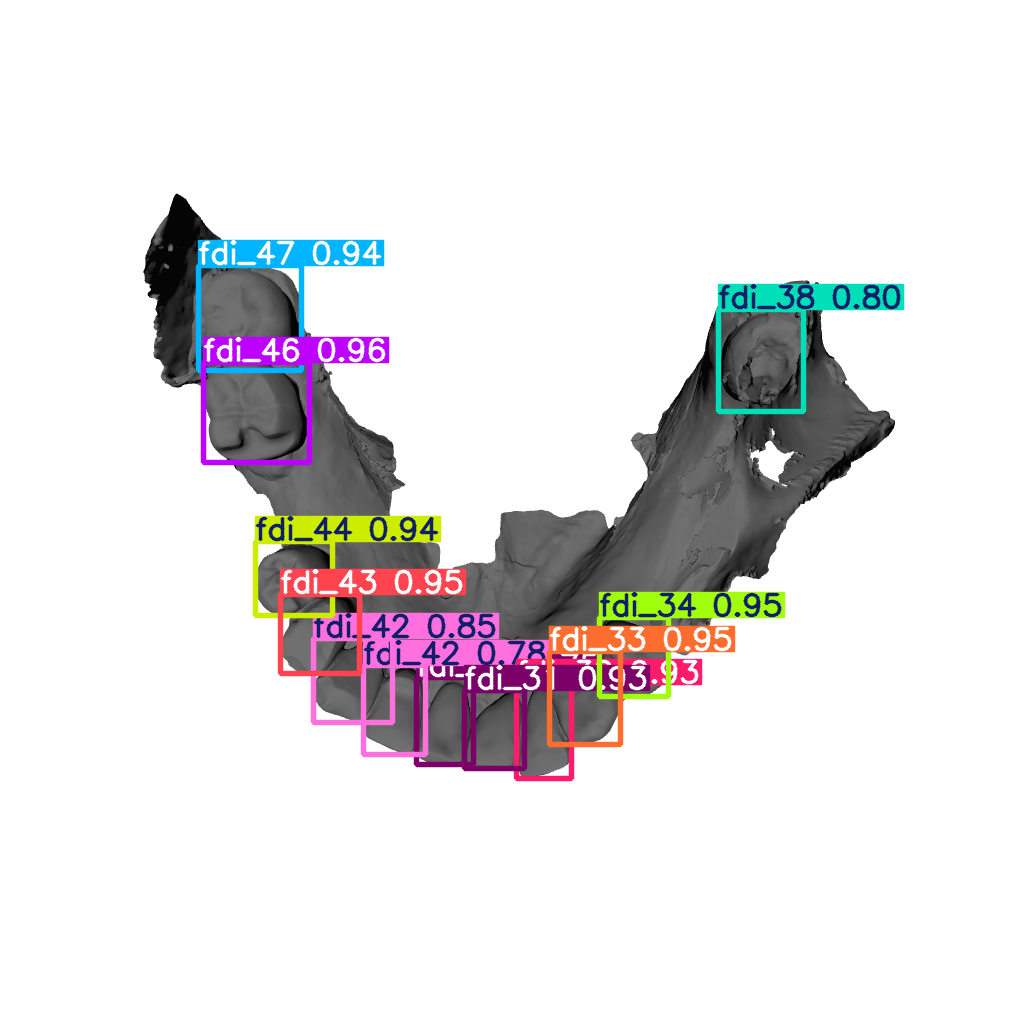
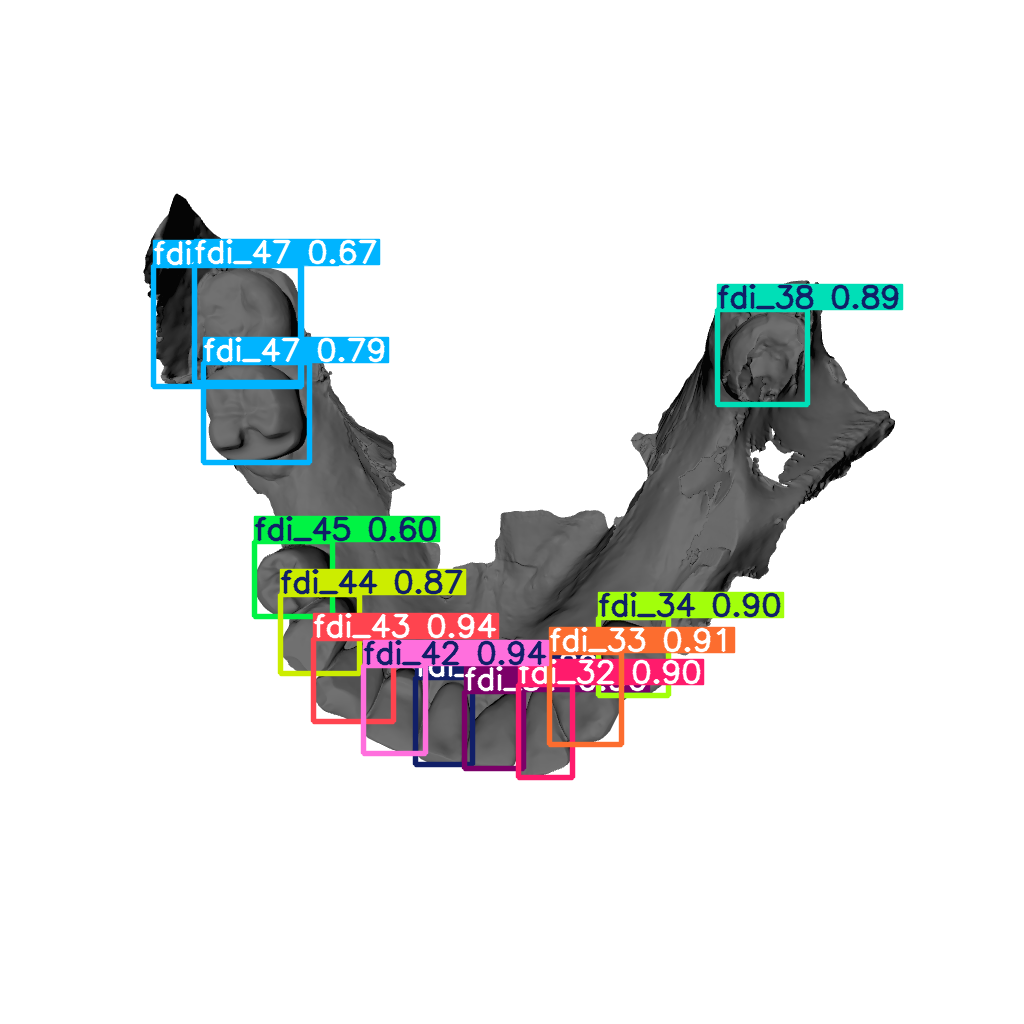
backup

Changed region(s): [[0.2188, 0.5, 0.7812, 0.7812], [0.125, 0.2188, 0.375, 0.4688], [0.6875, 0.2812, 0.9062, 0.4062]]

diff --git a/post_process.py b/post_process.py
@@ -3,7 +3,7 @@ import numpy as np
 
 # 載入模型和推論
 model = YOLO('runs/detect/m_using_m.autotune_dataaugmented/weights/best.pt')
-img_path = 'uninference_tooth/00240433UpperJaw_neutral.png'
+img_path = 'uninference_tooth/00240433LowerJaw_neutral.png'
 #results = model(img_path, agnostic_nms=True)
 results = model.predict(img_path, classes="soft", agnostic_nms=True) # pip install git+https://github.com/ultralytics/ultralytics@exp-nms 可以顯示bbox每個class的conf
 '''
@@ -156,7 +156,7 @@ TEMPLATE = {
     'upper': [18, 17, 16, 15, 14, 13, 12, 11, 21, 22, 23, 24, 25, 26, 27, 28],
     'lower': [38, 37, 36, 35, 34, 33, 32, 31, 41, 42, 43, 44, 45, 46, 47, 48]
 }
-
+'''
 def run_viterbi_alignment(prob_matrix, jaw_type='lower'):
     """
     prob_matrix: shape (N, 16), 你的機率矩陣
@@ -246,6 +246,104 @@ def run_viterbi_alignment(prob_matrix, jaw_type='lower'):
     final_fdi_labels.reverse()
     assigned_indices.reverse()
     
+    return final_fdi_labels, assigned_indices
+'''
+def run_viterbi_alignment(prob_matrix, jaw_type='lower', print_dp_path=True):
+    """
+    prob_matrix: shape (N, 16), 你的機率矩陣
+    jaw_type: 'upper' 或 'lower'，用來決定輸出的 FDI 編號
+    print_dp_path: 是否印出 DP 與 PATH 矩陣
+    """
+    N, M = prob_matrix.shape
+    template_fdi = TEMPLATE[jaw_type]
+
+    GAP_PENALTY = 0.05
+
+    dp = np.full((N, M), -1e9, dtype=np.float64)
+    path = np.full((N, M), -1, dtype=int)
+
+    # --- 1. 初始化 (Base Case) ---
+    for j in range(M):
+        dp[0][j] = prob_matrix[0][j]
+
+    # --- 2. 遞推 (Recursion) ---
+    for i in range(1, N):
+        for j in range(M):
+
+            best_prev_score = -1e9
+            best_k = -1
+
+            search_start = max(0, j - 6)
+
+            for k in range(search_start, j):
+                gap_count = (j - k) - 1
+                penalty = gap_count * GAP_PENALTY
+
+                score = dp[i - 1][k] - penalty
+
+                if score > best_prev_score:
+                    best_prev_score = score
+                    best_k = k
+
+            if best_k != -1:
+                dp[i][j] = best_prev_score + prob_matrix[i][j]
+                path[i][j] = best_k
+
+    # --- 3. 回溯 (Backtracking) ---
+    last_bbox_idx = N - 1
+    best_last_col = int(np.argmax(dp[last_bbox_idx, :]))
+
+    final_fdi_labels = []
+    assigned_indices = []
+    curr_col = best_last_col
+
+    for i in range(N - 1, -1, -1):
+        fdi = template_fdi[curr_col]
+        final_fdi_labels.append(fdi)
+        assigned_indices.append(curr_col)
+
+        prev_col = path[i][curr_col]
+        if prev_col == -1 and i > 0:
+            print(f"Warning: Path broken at step {i}")
+            break
+        curr_col = prev_col
+
+    final_fdi_labels.reverse()
+    assigned_indices.reverse()
+
+    # --- 4. 印出 DP / PATH 矩陣（仿照 prob_matrix 的表格形式） ---
+    if print_dp_path:
+        headers = [f"fdi_{x}" for x in template_fdi]
+
+        # (A) DP 矩陣
+        header = f"{'idx':<6}" + "".join([f"{name:<10}" for name in headers])
+        print("\n=== DP matrix (cumulative score) ===")
+        print(header)
+        print("-" * len(header))
+        for i in range(N):
+            row_str = f"{i:<6}"
+            for j in range(M):
+                v = dp[i, j]
+                if v < -1e8:  # 視為 -INF（不可達）
+                    row_str += f"{'-INF':<10}"
+                else:
+                    row_str += f"{v:<10.4f}"
+            print(row_str)
+
+        # (B) PATH 矩陣：顯示「上一個狀態的 FDI」（比顯示 k index 好懂）
+        print("\n=== PATH matrix (prev state as FDI) ===")
+        print(header)
+        print("-" * len(header))
+        for i in range(N):
+            row_str = f"{i:<6}"
+            for j in range(M):
+                k = path[i, j]
+                if k == -1:
+                    row_str += f"{'-':<10}"
+                else:
+                    row_str += f"{str(template_fdi[k]):<10}"
+            print(row_str)
+
     return final_fdi_labels, assigned_indices
 
 # --- 測試執行 ---

diff --git a/post_process_vis.py b/post_process_vis.py
@@ -1,0 +1,67 @@
+from ultralytics import YOLO
+import cv2
+import numpy as np
+
+model = YOLO("runs/detect/m_using_m.autotune_dataaugmented/weights/best.pt")
+
+img_path = "uninference_tooth/00240433LowerJaw_neutral.png"
+print(f"\n=== Inference on: {img_path} ===")
+
+results = model(img_path, agnostic_nms=True)
+
+for i, r in enumerate(results):
+    im = r.plot(labels=False, conf=False)
+
+    centers = []
+    if r.boxes is not None and len(r.boxes) > 0:
+        xyxy = r.boxes.xyxy.cpu().numpy()
+
+        # 收集每個 bbox 中心點
+        for (x1, y1, x2, y2) in xyxy:
+            cx = (x1 + x2) / 2
+            cy = (y1 + y2) / 2
+            centers.append([cx, cy])
+
+        centers = np.array(centers, dtype=np.float64)  # (N, 2)
+
+        # 算術平均中心點（質心）
+        ax = float(np.mean(centers[:, 0]))
+        ay = float(np.mean(centers[:, 1]))
+        centroid_xy = np.array([ax, ay], dtype=np.float64)
+        centroid_pt = (int(ax), int(ay))
+
+        # 先畫「中心點 -> 質心」連線 + 中心點 + 角度標註
+        for (cx, cy) in centers:
+            p = (int(cx), int(cy))
+
+            # 連線
+            cv2.line(im, p, centroid_pt, color=(0, 255, 255), thickness=2)
+
+            # 中心點
+            cv2.circle(im, p, radius=4, color=(0, 0, 255), thickness=-1)
+
+            # 角度（弧度->度）
+            dx = cx - centroid_xy[0]
+            dy = cy - centroid_xy[1]
+
+            # 影像座標版本（y往下）：直接用 dy
+            angle_deg = np.degrees(np.arctan2(dy, dx))
+
+            # 如果你想用「數學平面直覺（y往上）」：改用下面這行取代上面那行
+            # angle_deg = np.degrees(np.arctan2(-dy, dx))
+
+            # 標註文字（放在點右上方一點點）
+            text = f"degree {angle_deg:.1f}"
+            cv2.putText(im, text, (p[0] + 6, p[1] - 6),
+                        cv2.FONT_HERSHEY_SIMPLEX, 0.5, (0, 0, 0), 2, cv2.LINE_AA)
+            cv2.putText(im, text, (p[0] + 6, p[1] - 6),
+                        cv2.FONT_HERSHEY_SIMPLEX, 0.5, (255, 255, 255), 1, cv2.LINE_AA)
+
+        # 最後畫質心（大點）
+        cv2.circle(im, centroid_pt, radius=5, color=(0, 0, 0), thickness=-1)
+
+        print(f"Arithmetic-mean center: ({ax:.2f}, {ay:.2f})")
+
+    out_path = f"pred_with_centers_{i}.jpg"
+    cv2.imwrite(out_path, im)
+    print("saved:", out_path)

diff --git a/train_yolo.py b/train_yolo.py
@@ -7,7 +7,7 @@ if __name__ == '__main__':
     # 載入預訓練模型
     #model = YOLO('yolo11m.pt')  # 使用 nano 版本，速度快
     #model = RTDETR("rtdetr-l.pt")
-    model = YOLO('yolo12l.pt') 
+    model = YOLO('yolo12n.pt') 
     with open("106_tune.yaml", "r") as f:
         hyp = yaml.safe_load(f)
     # 開始訓練
@@ -34,11 +34,11 @@ if __name__ == '__main__':
     )
     '''
     results = model.train(
-        name='yolo12l',
+        name='yolo12n',
         data='yolo_numbering_dataset/dataset_splited_augmented/data.yaml',
         epochs=350,
         imgsz=1024,
-        batch=-1,
+        batch=20,
         device=0,
         workers=8,
         patience=50,

diff --git a/prepare_data/yologtvis.py b/prepare_data/yologtvis.py
@@ -94,8 +94,8 @@ def visualize_yolo_annotations(image_path, annotation_path, data_yaml,
 
 
 output = visualize_yolo_annotations(
-    'yolo_numbering_dataset/dataset_splited_augmented/images/train/0EAKT1CU_lower.png',
-    'yolo_numbering_dataset/dataset_splited_augmented/labels/train/0EAKT1CU_lower.txt',
+    'yolo_numbering_dataset/dataset_splited_augmented/images/val/Z5SBGG6H_upper.png',
+    'yolo_numbering_dataset/dataset_splited_augmented/labels/val/Z5SBGG6H_upper.txt',
     'yolo_numbering_dataset/dataset_splited_augmented/data.yaml',
-    '0EAKT1CU_lower_annotated.png'
+    'Z5SBGG6H_upper_annotated.png'
 )

diff --git a/inference.py b/inference.py
@@ -21,6 +21,7 @@ img_paths = [
 '''
 
 
+
 # 逐張推論
 for img_path in img_paths:
     print(f"\n=== Inference on: {img_path} ===")
@@ -32,4 +33,4 @@ for img_path in img_paths:
         print("probs:", r.probs)   # 類別機率（如果你的模型有 classification head 才會有）
         
         # 存推論結果（預設會存到 runs/ 之類的資料夾）
-        r.save()
+        r.save(labels=False, conf=False)
